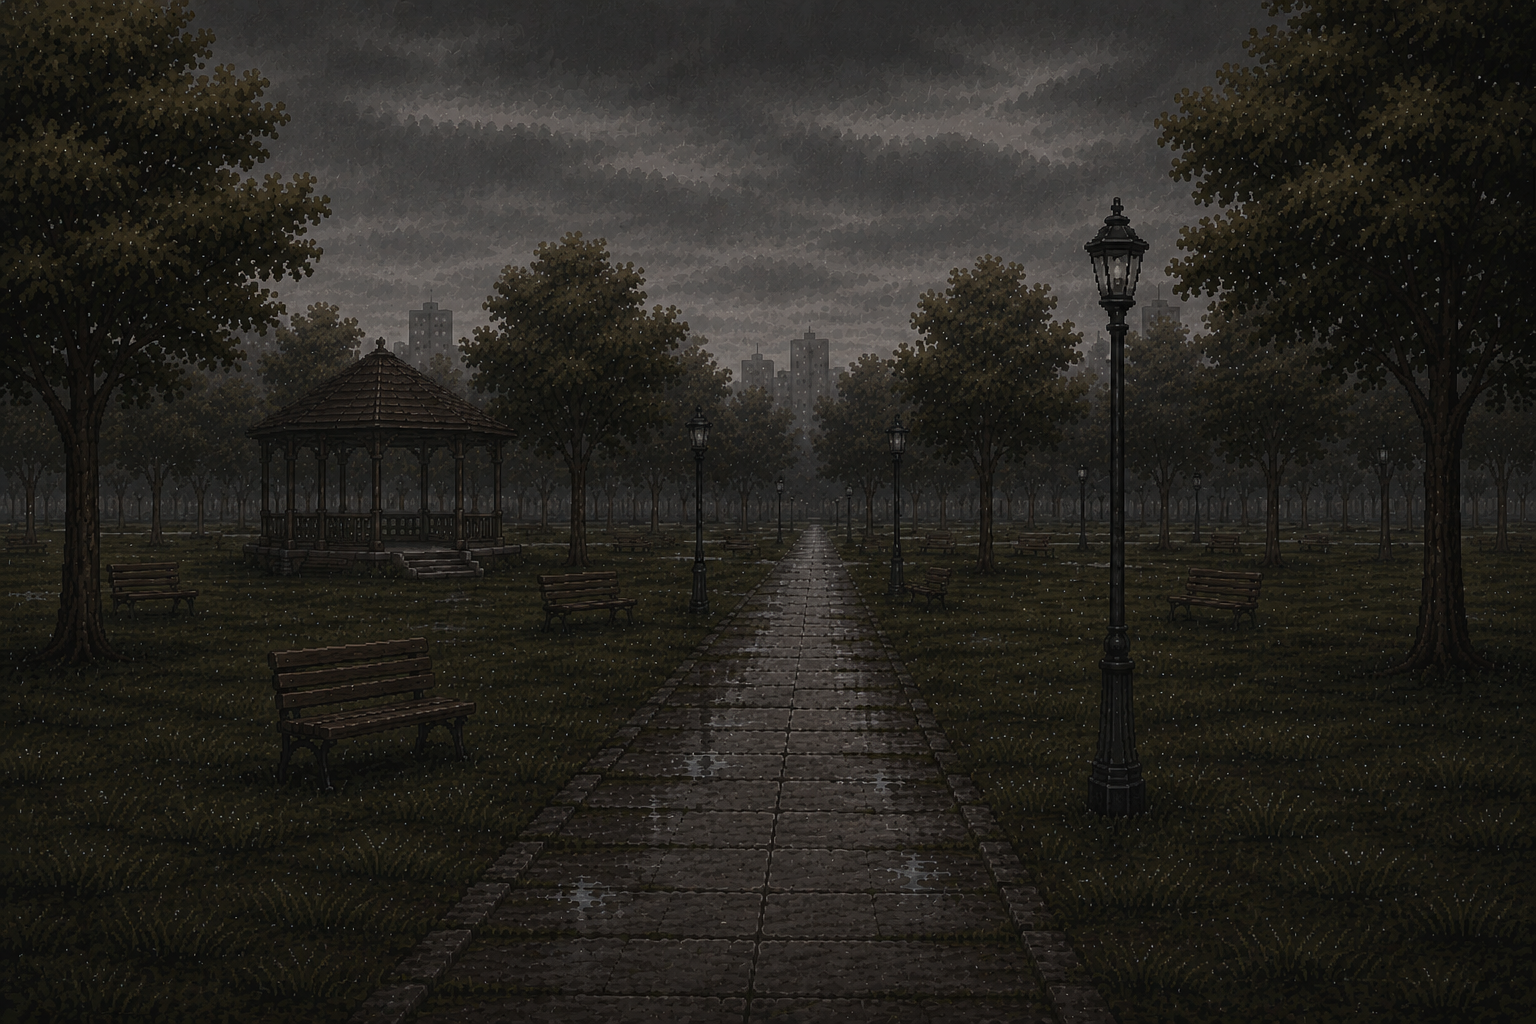
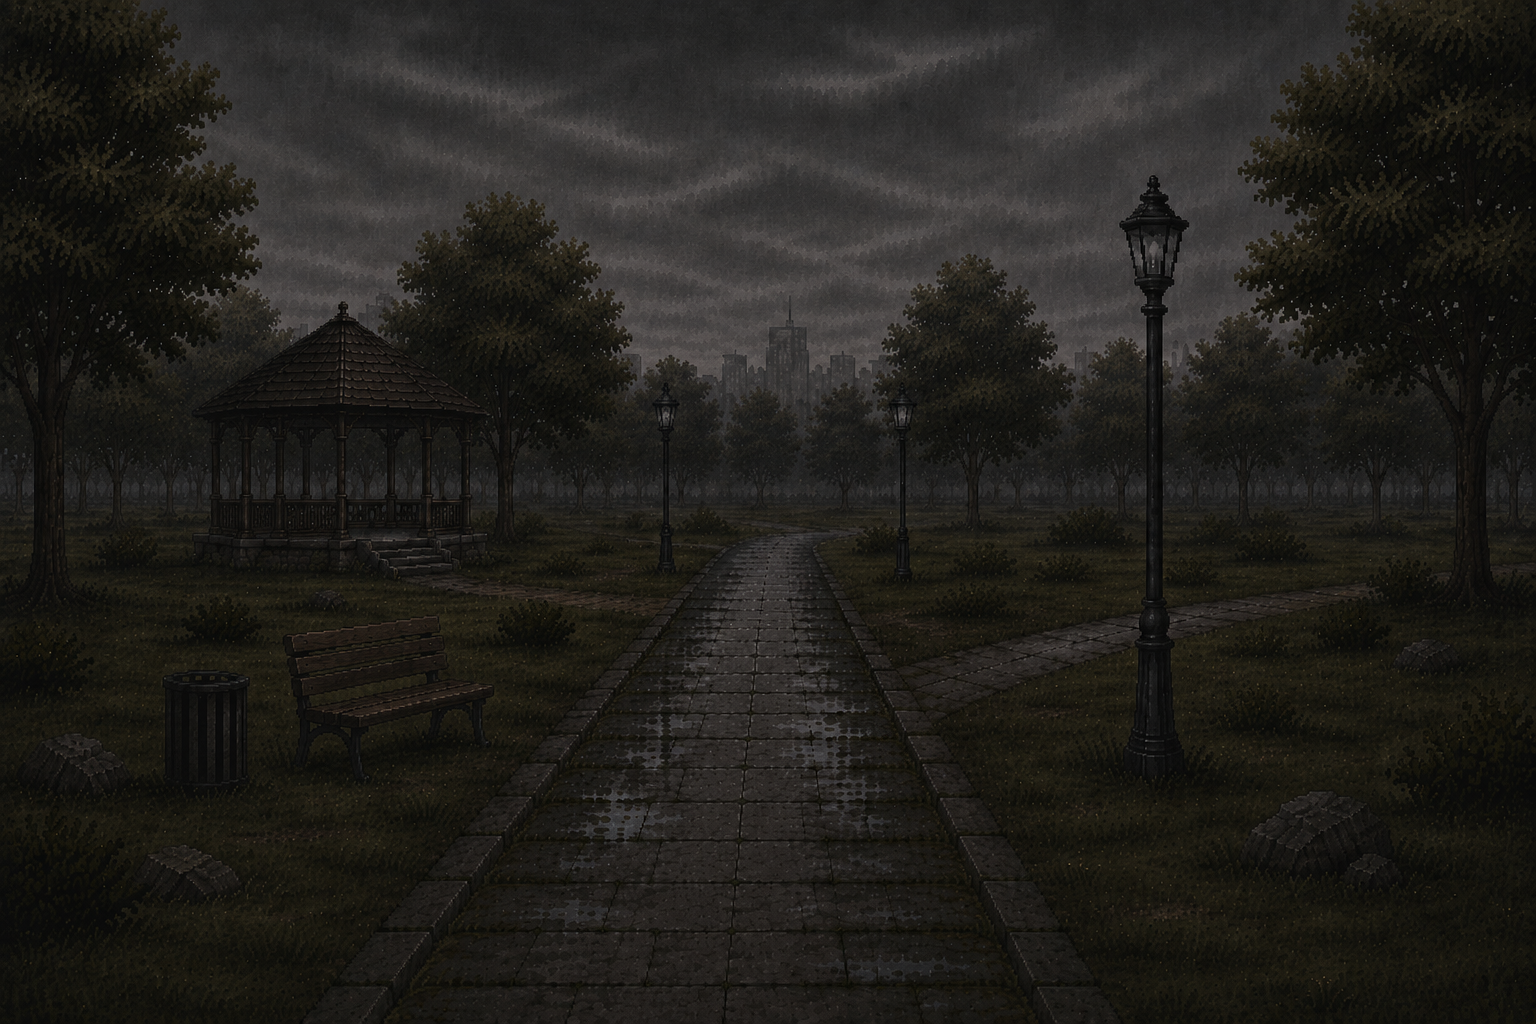
atusss

diff --git a/src/main/java/com/mycompany/s2501/Runs/RunPracaController.java b/src/main/java/com/mycompany/s2501/Runs/RunPracaController.java
@@ -114,7 +114,8 @@ private void initialize() {
 
     player.setFitWidth(larguraPlayer);
     player.setFitHeight(alturaPlayer);
-    player.setImage(playerSide);
+    player.setImage(playerFront);
+    player.setScaleX(1);
 
     posicionarPlayerNoChao();
 
@@ -152,19 +153,22 @@ private void initialize() {
 }
     
     private void registrarFechamentoDaJanela() {
-    root.sceneProperty().addListener((obsScene, oldScene, newScene) -> {
-        if (newScene != null) {
-            newScene.windowProperty().addListener((obsWindow, oldWindow, newWindow) -> {
-                if (newWindow instanceof Stage) {
-                    Stage stage = (Stage) newWindow;
+        root.sceneProperty().addListener((obsScene, oldScene, newScene) -> {
+            if (newScene != null) {
+                newScene.windowProperty().addListener((obsWindow, oldWindow, newWindow) -> {
+                    if (newWindow instanceof Stage) {
+                        Stage stage = (Stage) newWindow;
 
-                    stage.setOnCloseRequest(event -> {
-                        pararTudo();
+                        stage.setOnCloseRequest(event -> {
+                            if (!podeFecharJanela) {
+                                event.consume();
+                        }
                     });
                 }
             });
         }
     });
+
 }
     private void carregarImagens() {
         bg0 = new Image(App.class.getResourceAsStream("/com/mycompany/s2501/runp/bg_stage0.png"));
@@ -199,6 +203,12 @@ private void initialize() {
         interagiuComNpc = false;
         venceu = false;
         tempoRestante = 90;
+        
+        jaSeMoveu = false;
+        ultimoMovimentoNano = System.nanoTime();
+
+        player.setImage(playerFront);
+        player.setScaleX(1);
 
         Platform.runLater(() -> root.requestFocus());
 
@@ -264,7 +274,7 @@ private void initialize() {
         gameLoop = new AnimationTimer() {
             @Override
             public void handle(long now) {
-                moverPlayer();
+                moverPlayer(now);
                 moverNpcs();
             }
         };
@@ -272,46 +282,54 @@ private void initialize() {
         gameLoop.start();
     }
 
-private void moverPlayer() {
-    double x = player.getLayoutX();
-    boolean estaAndando = false;
+    private void moverPlayer(long now) {
+        double x = player.getLayoutX();
+        boolean estaAndando = false;
 
-    if (esquerdaPressionada) {
-        x -= velocidadePlayer;
+        if (esquerdaPressionada) {
+            x -= velocidadePlayer;
 
-        // A imagem side.png já olha para a esquerda
-        player.setScaleX(1);
+            // A imagem side/walk olha para a esquerda.
+            player.setScaleX(1);
 
-        estaAndando = true;
+            estaAndando = true;
+        }
+
+        if (direitaPressionada) {
+            x += velocidadePlayer;
+
+            // Para andar para a direita, espelha.
+            player.setScaleX(-1);
+
+            estaAndando = true;
+        }
+
+        if (x < 0) {
+            x = 0;
+        }
+
+        if (x > larguraTela - player.getFitWidth()) {
+            x = larguraTela - player.getFitWidth();
+        }
+
+        player.setLayoutX(x);
+        posicionarPlayerNoChao();
+
+        if (estaAndando) {
+            jaSeMoveu = true;
+            ultimoMovimentoNano = now;
+            animarCaminhada();
+        } else {
+            if (!jaSeMoveu || now - ultimoMovimentoNano >= tempoParadoParaFrontNano) {
+                player.setImage(playerFront);
+                player.setScaleX(1);
+            } else {
+                player.setImage(playerSide);
+            }
+
+            walkFrameAtual = 0;
+        }
     }
-
-    if (direitaPressionada) {
-        x += velocidadePlayer;
-
-        // Para andar para a direita, precisa espelhar
-        player.setScaleX(-1);
-
-        estaAndando = true;
-    }
-
-    if (x < 0) {
-        x = 0;
-    }
-
-    if (x > larguraTela - player.getFitWidth()) {
-        x = larguraTela - player.getFitWidth();
-    }
-
-    player.setLayoutX(x);
-    posicionarPlayerNoChao();
-
-    if (estaAndando) {
-        animarCaminhada();
-    } else {
-        player.setImage(playerSide);
-        walkFrameAtual = 0;
-    }
-}
     private void criarNpc() {
         ImageView npc = new ImageView(playerSide);
 
@@ -454,10 +472,40 @@ private void moverPlayer() {
 
         pararTudo();
 
-        painelFinal.setVisible(true);
-        mensagemFinalLabel.setText("A praça escureceu. O descanso não veio.");
+        npcLayer.getChildren().clear();
+        npcs.clear();
 
-        fecharDepoisDeAlgunsSegundos();
+        tempoLabel.setVisible(false);
+
+        painelFinal.setVisible(true);
+        painelFinal.setOpacity(0);
+        painelFinal.setStyle("-fx-background-color: black;");
+
+        mensagemFinalLabel.setText("A praça escureceu. O descanso não veio.");
+        mensagemFinalLabel.setOpacity(0);
+
+        FadeTransition fadeTelaPreta = new FadeTransition(Duration.seconds(2.5), painelFinal);
+        fadeTelaPreta.setFromValue(0);
+        fadeTelaPreta.setToValue(1);
+
+        FadeTransition fadeMensagem = new FadeTransition(Duration.seconds(2), mensagemFinalLabel);
+        fadeMensagem.setFromValue(0);
+        fadeMensagem.setToValue(1);
+
+        PauseTransition pausaDepoisMensagem = new PauseTransition(Duration.seconds(2));
+
+        SequentialTransition transicaoPerda = new SequentialTransition(
+                fadeTelaPreta,
+                fadeMensagem,
+                pausaDepoisMensagem
+        );
+
+        transicaoPerda.setOnFinished(event -> {
+            App.voltarParaQuartoAposPerdaRunPraca();
+            fecharStageDaRun();
+        });
+
+        transicaoPerda.play();
     }
 
 private void pararTudo() {
@@ -501,11 +549,20 @@ private void pararTudo() {
 
     private void fecharDepoisDeAlgunsSegundos() {
         Timeline fechar = new Timeline(new KeyFrame(Duration.seconds(4), event -> {
-            Stage stage = (Stage) root.getScene().getWindow();
-            stage.close();
+            fecharStageDaRun();
         }));
 
         fechar.setCycleCount(1);
         fechar.play();
     }
+    
+    private void fecharStageDaRun() {
+        podeFecharJanela = true;
+
+        Stage stage = (Stage) root.getScene().getWindow();
+        stage.close();
+    }
+    
+    
+    
 }

diff --git a/src/main/java/com/mycompany/s2501/App.java b/src/main/java/com/mycompany/s2501/App.java
@@ -29,6 +29,7 @@ public class App extends Application {
     private static final Set<String> dialogosJaIniciados = new HashSet<>();
     private static final Map<String, Integer> indicesDialogo = new HashMap<>();
     private static final Map<String, Timeline> timelinesDialogo = new HashMap<>();    
+    private static boolean dialogoPerdaRunPracaPendente = false;
 
     private static InventarioController inventarioController;
 
@@ -254,6 +255,50 @@ public class App extends Application {
         indicesDialogo.clear();
         dialogosJaIniciados.clear();
     }    
+    
+    
+    public static void voltarParaQuartoAposPerdaRunPraca() {
+        dialogoPerdaRunPracaPendente = true;
+
+        try {
+            setRoot("quarto");
+        } catch (IOException e) {
+            e.printStackTrace();
+        }
+    }
+
+    public static boolean consumirDialogoPerdaRunPraca() {
+        if (dialogoPerdaRunPracaPendente) {
+            dialogoPerdaRunPracaPendente = false;
+            return true;
+        }
+
+        return false;
+    }
+    
+    public static void iniciarDialogoSituacional(String idDialogo, Label floatingText, Button botaoContinuar, String[] falas) {
+        if (floatingText == null || botaoContinuar == null) {
+            return;
+        }
+
+        if (falas == null || falas.length == 0) {
+            esconderDialogo(floatingText, botaoContinuar);
+            return;
+        }
+
+        Timeline timelineAnterior = timelinesDialogo.remove(idDialogo);
+
+        if (timelineAnterior != null) {
+            timelineAnterior.stop();
+        }
+
+        indicesDialogo.put(idDialogo, 0);
+
+        floatingText.setVisible(true);
+        botaoContinuar.setVisible(false);
+
+        mostrarTextoLento(idDialogo, floatingText, botaoContinuar, falas[0]);
+    }
 
     public static void setRoot(String fxml) throws IOException {
         scene.setRoot(loadFXML(fxml));

diff --git a/src/main/java/com/mycompany/s2501/Quarto/QuartoController.java b/src/main/java/com/mycompany/s2501/Quarto/QuartoController.java
@@ -30,26 +30,40 @@ public class QuartoController {
     @FXML
     private Label floatingText;
 
-    private final String dialogoId = "quarto_inicio";
+    private String dialogoIdAtivo;
+    private String[] falasAtivas;
 
-    private String[] falas = {
+    private final String[] falasQuartoInicio = {
         "... Onde estou?",
         "Eu conheço esse lugar?"
     };
 
+    private final String[] falasPerdaRunPraca = {
+        "... De novo aqui."
+    };
+
     @FXML
     public void initialize() {
-        App.iniciarDialogoUmaVez(dialogoId, floatingText, botaoContinuar, falas);
+        if (App.consumirDialogoPerdaRunPraca()) {
+            dialogoIdAtivo = "quarto_perda_run_praca";
+            falasAtivas = falasPerdaRunPraca;
+
+            App.iniciarDialogoSituacional(dialogoIdAtivo, floatingText, botaoContinuar, falasAtivas);
+        } else {
+            dialogoIdAtivo = "quarto_inicio";
+            falasAtivas = falasQuartoInicio;
+
+            App.iniciarDialogoUmaVez(dialogoIdAtivo, floatingText, botaoContinuar, falasAtivas);
+        }
     }
 
     @FXML
     public void proximaFrase() {
-        App.proximaFraseDialogo(dialogoId, floatingText, botaoContinuar, falas);
+        App.proximaFraseDialogo(dialogoIdAtivo, floatingText, botaoContinuar, falasAtivas);
     }
     
-    @FXML
+        @FXML
     private void abrirInventario() {
         App.toggleInventario();
     }
-    
 }